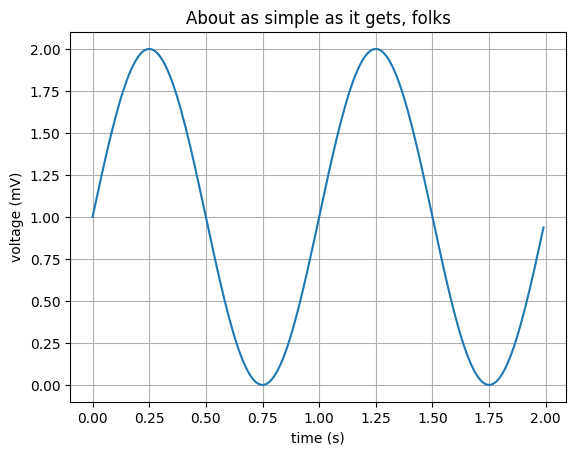
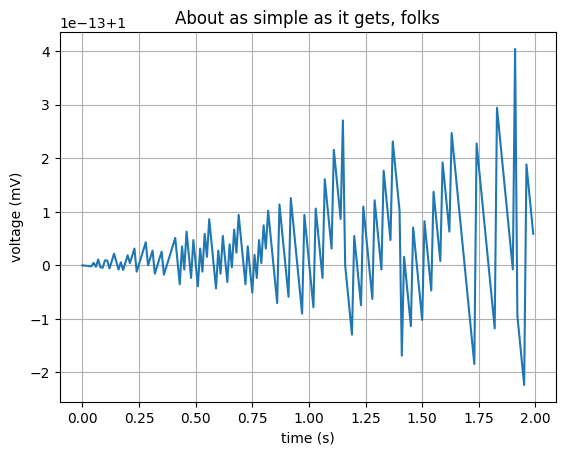
Deploying to gh-pages from @ Aaravshah2907/Aarav-Jupyter-Site-Template@64eb330243f8b36146afa67ed5fbe06828f47836 🚀

diff --git a/a-great-subfolder/NOTEBOOK.md b/a-great-subfolder/NOTEBOOK.md
@@ -16,7 +16,7 @@ some experiments.
 
 ```python
 t = np.arange(0.0, 2.0, 0.01)
-s = 1 + np.sin(2*np.pi*t)
+s = 1 + np.sin(400*np.pi*t)
 plt.plot(t, s)
 
 plt.xlabel('time (s)')
@@ -34,9 +34,9 @@ plt.show()
 
 
 <div style="text-align: center; margin-left: 45%;">
-    <a href="https://github.com" target="_blank" style="text-decoration: none;">
+    <a href="https://google.com" target="_blank" style="text-decoration: none;">
         <button style="background-color: #0366d6; color: white; border: none; padding: 10px 20px; font-size: 16px; display: flex; align-items: center; cursor: pointer;">
-            <img src="/contents/github-logo.svg" alt="GitHub Logo" style="width: 20px; height: 20px; margin-right: 10px;">
+            <img src="../contents/github-logo.svg" alt="GitHub Logo" style="width: 20px; height: 20px; margin-right: 10px;">
             GITHUB CODE
         </button>
     </a>

diff --git a/NOTEBOOK.md b/NOTEBOOK.md
@@ -36,7 +36,7 @@ plt.show()
 <div style="text-align: center; margin-left: 45%;">
     <a href="https://github.com" target="_blank" style="text-decoration: none;">
         <button style="background-color: #0366d6; color: white; border: none; padding: 10px 20px; font-size: 16px; display: flex; align-items: center; cursor: pointer;">
-            <img src="/contents/github-logo.svg" alt="GitHub Logo" style="width: 20px; height: 20px; margin-right: 10px;">
+            <img src="contents/github-logo.svg" alt="GitHub Logo" style="width: 20px; height: 20px; margin-right: 10px;">
             GITHUB CODE
         </button>
     </a>
